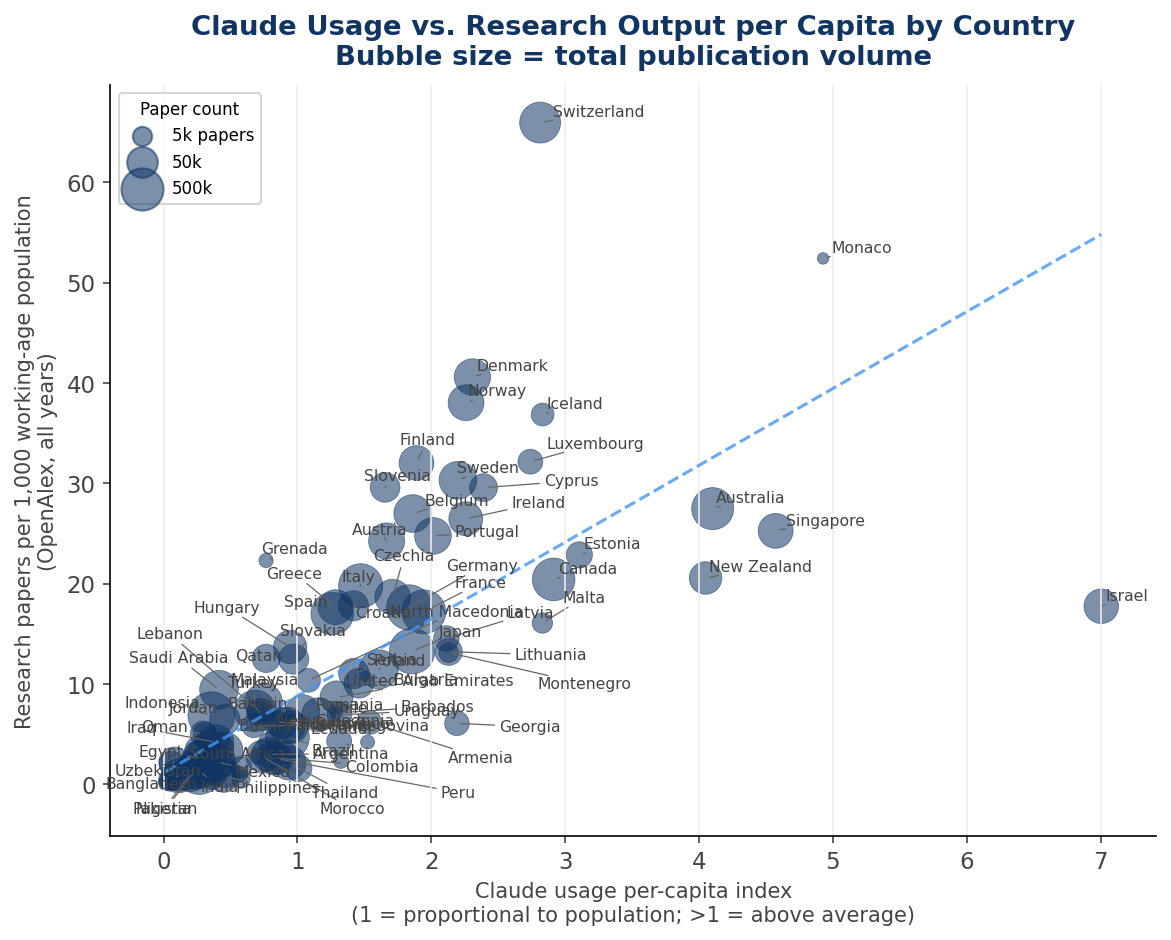
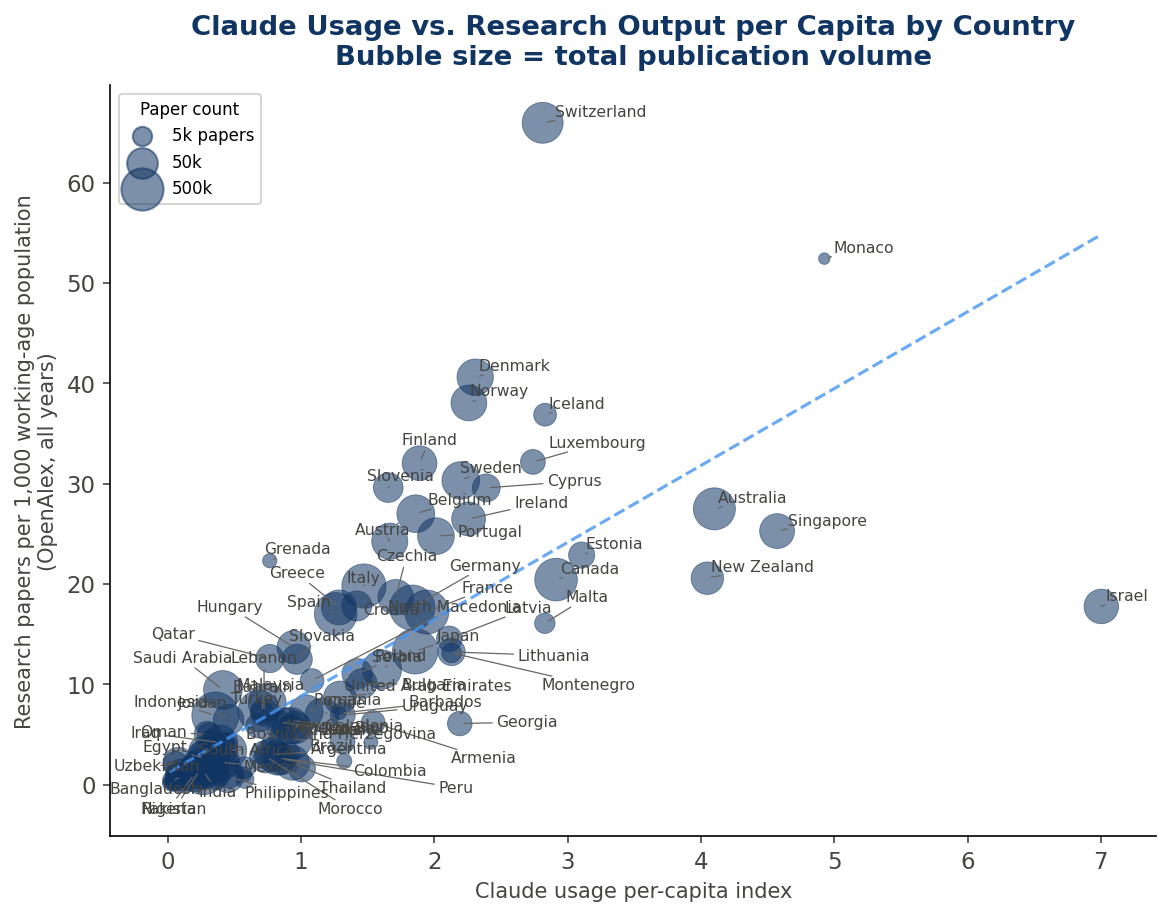
Scatter: remove grid, shorten x label, US label with lightblue box

diff --git a/generate_figures.py b/generate_figures.py
@@ -421,11 +421,18 @@ def fig_claude_vs_science_scatter():
     label_countries = df[label_mask]
 
     from adjustText import adjust_text
-    import matplotlib.patheffects as pe
 
     fig, ax = plt.subplots(figsize=(9, 6.5))
+    ax.grid(False)  # no grid lines on scatter
     ax.scatter(df["claude_index"], df["papers_per_capita"],
                s=sizes, c=LABLUE, alpha=0.55, linewidths=0.4, edgecolors=LABLUE)
+
+    # Ensure US is always in the label set
+    us_in_labels = label_countries["country_code"].eq("US").any()
+    if not us_in_labels:
+        us_row = df[df["country_code"] == "US"]
+        if not us_row.empty:
+            label_countries = pd.concat([label_countries, us_row])
 
     texts = []
     for _, row in label_countries.iterrows():
@@ -435,20 +442,10 @@ def fig_claude_vs_science_scatter():
             row["country_name"],
             fontsize=8.5 if is_us else 7.5,
             fontweight="bold" if is_us else "normal",
-            color=LALIGHTBLUE if is_us else GRAY1,
+            color=GRAY1,
+            bbox=dict(boxstyle="round,pad=0.15", fc="white", ec=LALIGHTBLUE,
+                      lw=1.5, alpha=0.9) if is_us else None,
         )
-        if is_us:
-            t.set_path_effects([pe.withStroke(linewidth=2.5, foreground="white")])
-        texts.append(t)
-
-    # Always label the US even if it didn't meet the general threshold
-    us_row = df[df["country_code"] == "US"]
-    if not us_row.empty and not any(r["country_code"] == "US" for _, r in label_countries.iterrows()):
-        r = us_row.iloc[0]
-        t = ax.text(r["claude_index"], r["papers_per_capita"],
-                    "United States of America",
-                    fontsize=8.5, fontweight="bold", color=LALIGHTBLUE)
-        t.set_path_effects([pe.withStroke(linewidth=2.5, foreground="white")])
         texts.append(t)
 
     adjust_text(texts, ax=ax,
@@ -456,7 +453,7 @@ def fig_claude_vs_science_scatter():
                 expand=(1.3, 1.5), force_text=(0.4, 0.6),
                 only_move={"text": "xy", "points": "y"})
 
-    # Trend line
+    # Trend line (drawn after labels so it appears on top of grid but under points)
     mask = df["claude_index"].between(0.01, 20)
     if mask.sum() > 10:
         x, y = df.loc[mask, "claude_index"], df.loc[mask, "papers_per_capita"]
@@ -465,7 +462,7 @@ def fig_claude_vs_science_scatter():
         ax.plot(x_fit, np.polyval(coef, x_fit),
                 color=LALIGHTBLUE, linewidth=1.5, linestyle="--", alpha=0.8)
 
-    ax.set_xlabel("Claude usage per-capita index\n(1 = proportional to population; >1 = above average)",
+    ax.set_xlabel("Claude usage per-capita index",
                   color=GRAY1, fontsize=10)
     ax.set_ylabel("Research papers per 1,000 working-age population\n(OpenAlex, all years)",
                   color=GRAY1, fontsize=10)
